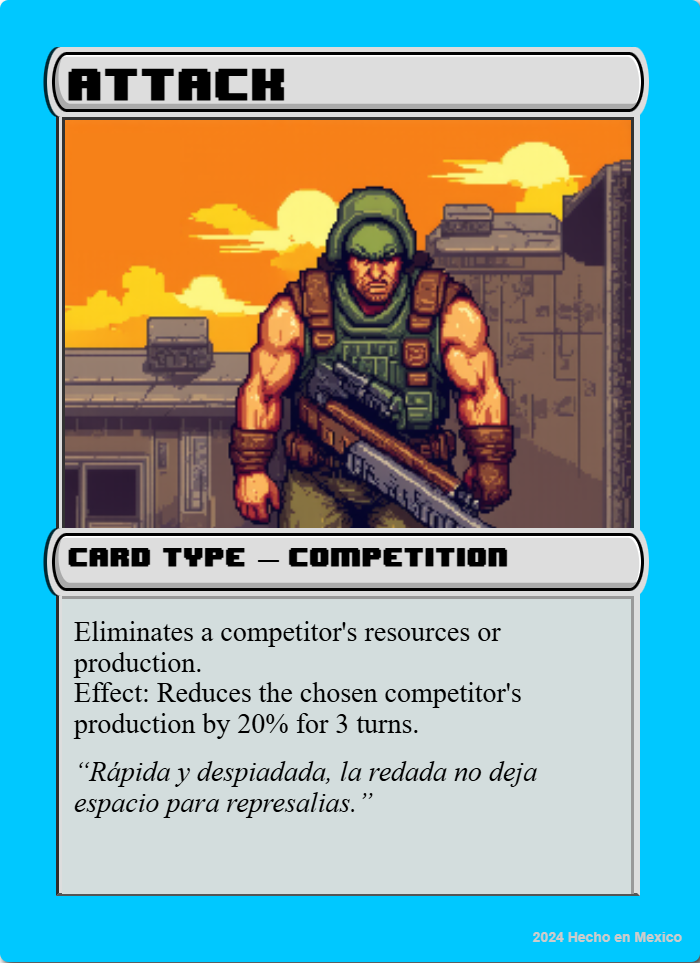
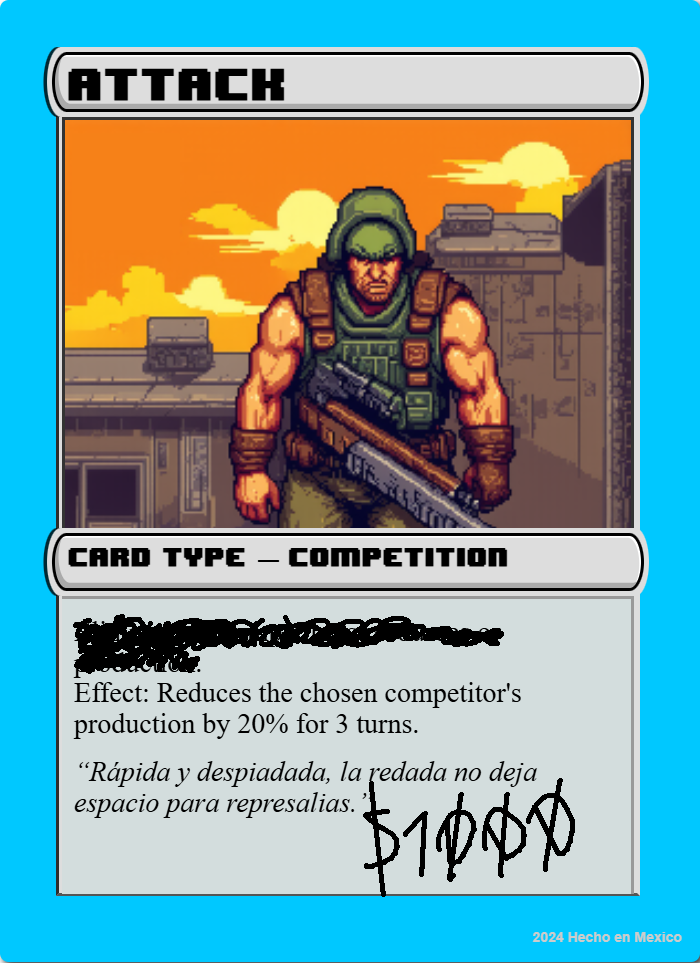
new tag

Changed region(s): [[0.09, 0.6231, 0.72, 0.7165], [0.51, 0.81, 0.84, 0.9346]]

diff --git a/src/game/cards.rs b/src/game/cards.rs
@@ -14,16 +14,14 @@ pub struct PhaseTimer(pub Timer);
 
 #[derive(Clone, Copy, Debug, Default)]
 pub enum CardType {
+    #[default]
     Attack,
     BigDeal,
-    #[default]
     Cocaine,
     Cannabis,
     Drought,
-    Espionage,
     Export,
     LocalMarket,
-    PoliceBribe,
     Train,
     Truck,
 }
@@ -43,6 +41,7 @@ pub enum ChipType {
 #[derive(Default, Clone, Debug)]
 pub struct Kard {
     pub card_type: CardType,
+    pub price: i32,
     pub filename: String,
 }
 
@@ -55,48 +54,45 @@ impl CardMetadata for Kard {
 }
 
 pub fn load_playing_deck(num_players: usize) -> Vec<Kard> {
-    let _attack = Kard {
+    let attack = Kard {
         card_type: CardType::Attack,
+        price: 1000,
         filename: "tarjetas/attack.png".to_string(),
     };
 
     let cocaine = Kard {
         card_type: CardType::Cocaine,
+        price: 1000,
         filename: "tarjetas/cocaine.png".to_string(),
-    };
-
-    let _espionage = Kard {
-        card_type: CardType::Espionage,
-        filename: "tarjetas/espionage.png".to_string(),
     };
 
     let export = Kard {
         card_type: CardType::Export,
+        price: 0,
         filename: "tarjetas/export.png".to_string(),
     };
 
     let local_market = Kard {
         card_type: CardType::LocalMarket,
+        price: 0,
         filename: "tarjetas/local-market.png".to_string(),
     };
 
     let marijuana = Kard {
         card_type: CardType::Cannabis,
+        price: 500,
         filename: "tarjetas/marijuana.png".to_string(),
-    };
-
-    let _police_bribe = Kard {
-        card_type: CardType::PoliceBribe,
-        filename: "tarjetas/police-bribe.png".to_string(),
     };
 
     let train = Kard {
         card_type: CardType::Train,
+        price: 1000,
         filename: "tarjetas/train.png".to_string(),
     };
 
     let truck = Kard {
         card_type: CardType::Truck,
+        price: 300,
         filename: "tarjetas/truck.png".to_string(),
     };
 
@@ -118,11 +114,7 @@ pub fn load_playing_deck(num_players: usize) -> Vec<Kard> {
 
         deck.push(export.clone());
 
-        // deck.push(espionage.clone());
-
-        // deck.push(attack.clone());
-
-        // deck.push(police_bribe.clone());
+        deck.push(attack.clone());
     }
 
     deck
@@ -131,11 +123,13 @@ pub fn load_playing_deck(num_players: usize) -> Vec<Kard> {
 pub fn load_event_deck(num_players: usize) -> Vec<Kard> {
     let big_deal = Kard {
         card_type: CardType::BigDeal,
+        price: 0,
         filename: "tarjetas/big-deal.png".to_string(),
     };
 
     let drought = Kard {
         card_type: CardType::Drought,
+        price: 0,
         filename: "tarjetas/drought.png".to_string(),
     };
 
@@ -158,10 +152,11 @@ pub enum TurnPhase {
     ApplyProductionCards,
     ApplyTransportationCards,
     ApplySalesCards,
+    ApplyActionCards,
     End,
 }
 
-#[derive(Clone, Copy, Debug)]
+#[derive(Clone, Copy, Debug, PartialEq)]
 pub enum EffectType {
     Drought,
     Attack,
@@ -181,7 +176,7 @@ pub struct GameState {
     pub effects: Vec<Effect>,
     pub phase: TurnPhase,
     pub player: usize,
-    pub bank: Vec<u16>,
+    pub bank: Vec<i32>,
     num_players: usize,
 }
 
@@ -194,7 +189,8 @@ impl GameState {
             TurnPhase::ApplyEventCard => TurnPhase::ApplyProductionCards,
             TurnPhase::ApplyProductionCards => TurnPhase::ApplyTransportationCards,
             TurnPhase::ApplyTransportationCards => TurnPhase::ApplySalesCards,
-            TurnPhase::ApplySalesCards => TurnPhase::End,
+            TurnPhase::ApplySalesCards => TurnPhase::ApplyActionCards,
+            TurnPhase::ApplyActionCards => TurnPhase::End,
             TurnPhase::End => {
                 if self.player == self.num_players {
                     self.turn_number += 1;
@@ -203,10 +199,6 @@ impl GameState {
                     self.player += 1;
                 }
                 TurnPhase::Prepare
-            }
-            _ => {
-                println!("Invalid phase: {:?}", self.phase);
-                TurnPhase::End
             }
         };
         self.remove_expired_effects();
@@ -230,22 +222,25 @@ impl GameState {
         self.bank = vec![0; self.num_players];
     }
 
-    pub fn increase_bank(&mut self, player: usize, amount: u16) {
+    pub fn change_balance(&mut self, player: usize, amount: i32) {
         self.bank[player - 1] += amount;
     }
 
-    pub fn draw_bank(&mut self, player: usize, amount: u16) {
+    pub fn draw_bank(&mut self, player: usize, amount: i32) {
         self.bank[player - 1] -= amount;
     }
 
-    pub fn get_balance(&self, player: usize) -> u16 {
+    pub fn get_balance(&self, player: usize) -> i32 {
         self.bank[player - 1]
     }
 
-    pub fn add_effect(&mut self, effect_type: EffectType, duration: usize) {
+    pub fn add_effect(&mut self, effect_type: EffectType, duration: usize, player: usize) {
+        self.effects
+            .retain(|effect| !(effect.effect_type == effect_type && effect.player == player));
+
         self.effects.push(Effect {
             effect_type: effect_type,
-            player: self.player,
+            player: player,
             turn_number: self.turn_number,
             duration,
         });
@@ -343,7 +338,6 @@ pub fn apply_card_effects(
                         match effect.effect_type {
                             EffectType::Attack => acc + 1,
                             EffectType::Drought => acc + 1,
-                            _ => acc,
                         }
                     });
 
@@ -518,8 +512,27 @@ pub fn apply_card_effects(
                         ew_discard_chip.send(event);
                         chip_value -= 2;
 
-                        state.increase_bank(player, 100);
+                        state.change_balance(player, 100);
                     }
+
+                    ew_place_card_off_table.send(PlaceCardOffTable {
+                        card_entity: entity,
+                        deck_marker: 1,
+                    });
+                }
+                _ => {}
+            },
+            TurnPhase::ApplyActionCards => match card.data.card_type {
+                CardType::Attack => {
+                    state.add_effect(
+                        EffectType::Attack,
+                        2,
+                        match player {
+                            1 => 2,
+                            2 => 1,
+                            _ => 1,
+                        },
+                    );
 
                     ew_place_card_off_table.send(PlaceCardOffTable {
                         card_entity: entity,
@@ -581,11 +594,9 @@ pub fn apply_card_effects(
                 let card_type = card.data.card_type;
                 match card_type {
                     CardType::Drought => {
-                        state.add_effect(EffectType::Drought, 3);
+                        state.add_effect(EffectType::Drought, 3, player);
                     }
-                    CardType::Attack => {
-                        state.add_effect(EffectType::Attack, 2);
-                    }
+
                     _ => {}
                 }
             }
@@ -601,6 +612,7 @@ pub fn apply_card_effects(
         | TurnPhase::ApplySalesCards
         | TurnPhase::DrawEventCard
         | TurnPhase::ApplyEventCard
+        | TurnPhase::ApplyActionCards
         | TurnPhase::End => {
             ew_advance_phase.send(AdvancePhase);
         }

diff --git a/src/game/spawn/level.rs b/src/game/spawn/level.rs
@@ -440,7 +440,6 @@ fn spawn_board(
 }
 
 pub fn handle_drop_chip(
-    asset_server: Res<AssetServer>,
     mut commands: Commands,
     mut er_drop_chip: EventReader<DropChip>,
     query: Query<(Entity, &ChipArea, &Chip<ChipType>)>,
@@ -580,7 +579,7 @@ pub fn handle_move_chip_to_sales(
 pub fn discard_chip(
     mut commands: Commands,
     mut er_discard_chip: EventReader<DiscardChip>,
-    query: Query<(Entity, &Transform, &Chip<ChipType>)>,
+    _query: Query<(Entity, &Transform, &Chip<ChipType>)>,
 ) {
     for discard_chip in er_discard_chip.read() {
         if commands.get_entity(discard_chip.entity).is_none() {
@@ -613,7 +612,7 @@ pub fn render_hand_area(mut commands: Commands) {
     commands.spawn((
         Name::new("HandArea - Player 1"),
         TransformBundle {
-            local: Transform::from_translation(Vec3::new(0.0, 3.5, 5.8))
+            local: Transform::from_translation(Vec3::new(0.0, 1.5, 5.8))
                 .with_rotation(Quat::from_rotation_x(std::f32::consts::PI / 4.0)),
             ..default()
         },
@@ -623,7 +622,7 @@ pub fn render_hand_area(mut commands: Commands) {
     commands.spawn((
         Name::new("HandArea - Player 2"),
         TransformBundle {
-            local: Transform::from_translation(Vec3::new(0.0, 3.5, -5.8)).with_rotation(
+            local: Transform::from_translation(Vec3::new(0.0, 1.5, -5.8)).with_rotation(
                 Quat::from_rotation_x(-std::f32::consts::PI / 4.0)
                     * Quat::from_rotation_y(std::f32::consts::PI),
             ),
@@ -644,9 +643,9 @@ pub fn update_race_gem_positions(
             _ => 4.8,
         };
 
-        let current_score: u16 = game_state.get_balance(gem.player);
+        let current_score: i32 = game_state.get_balance(gem.player);
         let percent_of_lap = (current_score as f32) / goal;
-        let angle = percent_of_lap * std::f32::consts::PI * 2.0;
+        let angle = -percent_of_lap * std::f32::consts::PI * 2.0;
 
         transform.translation.x = -7.6 + radius * angle.cos();
         transform.translation.z = radius * angle.sin();

diff --git a/src/game/spawn/ui.rs b/src/game/spawn/ui.rs
@@ -4,7 +4,7 @@ use bevy::prelude::*;
 use bevy_la_mesa::events::{CardPress, PlaceCardOnTable};
 use bevy_la_mesa::{Card, CardOnTable, Hand};
 
-use crate::game::cards::Kard;
+use crate::game::cards::{GameState, Kard};
 use crate::screen::Screen;
 use crate::ui::widgets::Widgets;
 
@@ -98,14 +98,21 @@ pub fn handle_card_press(
     query_cards_in_hand: Query<(Entity, &Card<Kard>, &Hand)>,
     query_cards_on_table: Query<(Entity, &Card<Kard>, &CardOnTable)>,
     mut ew_place_card_on_table: EventWriter<PlaceCardOnTable>,
+    mut state: ResMut<GameState>,
 ) {
+    let player = state.player;
     for event in card_press.read() {
         let hand = query_cards_in_hand.get(event.card_entity).ok();
         if hand.is_none() {
             continue;
         }
-        let hand = hand.unwrap().2;
+        let (_, kard, hand) = hand.unwrap();
 
+        if kard.data.price > state.get_balance(state.player) {
+            continue;
+        }
+
+        state.change_balance(player, -kard.data.price);
         let markers: Vec<usize> = query_cards_on_table
             .iter()
             .filter(|(_, _, t)| t.player == hand.player)

diff --git a/src/game/ui.rs b/src/game/ui.rs
@@ -145,6 +145,7 @@ fn handle_labels(
                             "Applying Transportation Cards".to_string()
                         }
                         TurnPhase::ApplySalesCards => "Applying Sales Cards".to_string(),
+                        TurnPhase::ApplyActionCards => "Applying Action Cards".to_string(),
                     };
                 }
                 CardGameUIAction::ButtonDropChip => {}
@@ -159,7 +160,7 @@ fn handle_labels(
                 }
                 CardGameUIAction::LabelEffects => {
                     text.sections[0].value =
-                        format!("Effects: [{:?}]", state.get_effects(state.player));
+                        format!("Effects: {:?}", state.get_effects(state.player));
                 }
             }
         }

diff --git a/src/game/assets.rs b/src/game/assets.rs
@@ -58,12 +58,12 @@ impl FromWorld for HandleMap<ChipModel> {
         let asset_server = world.resource::<AssetServer>();
         [
             (
-                ChipModel::Cocaine,
+                ChipModel::Cannabis,
                 asset_server
                     .load("models/chip-cannabis/chip_for_tabletop_gam_0723233549_preview.obj"),
             ),
             (
-                ChipModel::Cannabis,
+                ChipModel::Cocaine,
                 asset_server
                     .load("models/chip-cocaine/chip_for_tabletop_gam_0723233917_refine.obj"),
             ),

diff --git a/src/game/audio/soundtrack.rs b/src/game/audio/soundtrack.rs
@@ -29,7 +29,7 @@ fn play_soundtrack(
             source: soundtrack_handles[&soundtrack_key].clone_weak(),
             settings: PlaybackSettings {
                 mode: PlaybackMode::Loop,
-                volume: Volume::new(0.1),
+                volume: Volume::new(0.001),
                 ..default()
             },
         },

diff --git a/src/main.rs b/src/main.rs
@@ -2,7 +2,7 @@
 #![cfg_attr(not(feature = "dev"), windows_subsystem = "windows")]
 
 use bevy::prelude::*;
-use cardgame::AppPlugin;
+use bevy_cartel::AppPlugin;
 
 fn main() -> AppExit {
     App::new().add_plugins(AppPlugin).run()
